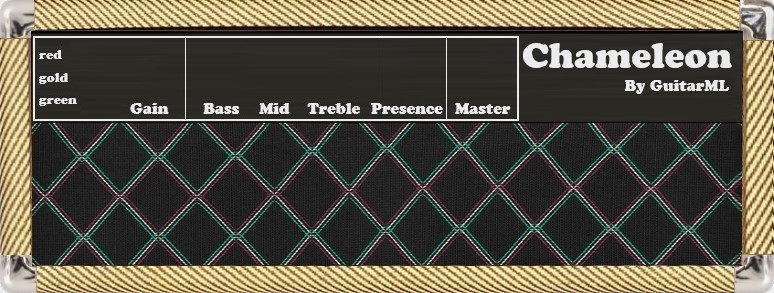
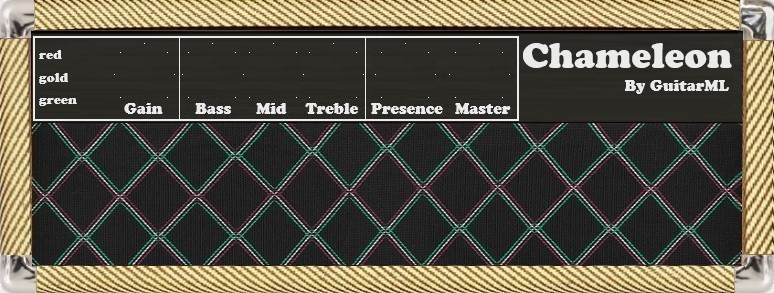
GUI adjustments

Changed region(s): [[0.2481, 0.3379, 0.4651, 0.3993], [0.155, 0.3379, 0.2171, 0.3993]]

diff --git a/Source/PluginEditor.cpp b/Source/PluginEditor.cpp
@@ -76,7 +76,7 @@ ChameleonAudioProcessorEditor::ChameleonAudioProcessorEditor (ChameleonAudioProc
     addAndMakeVisible(ampGainKnob);
     ampGainKnob.setLookAndFeel(&ampSilverKnobLAF);
     ampGainKnob.addListener(this);
-    ampGainKnob.setRange(-12.0, 12.0);
+    ampGainKnob.setRange(-10.0, 10.0);
     ampGainKnob.setValue(processor.ampGainKnobState);
     ampGainKnob.setSliderStyle(juce::Slider::SliderStyle::RotaryVerticalDrag);
     ampGainKnob.setTextBoxStyle(juce::Slider::TextEntryBoxPosition::NoTextBox, false, 50, 20);
@@ -115,8 +115,8 @@ ChameleonAudioProcessorEditor::~ChameleonAudioProcessorEditor()
 //==============================================================================
 void ChameleonAudioProcessorEditor::paint (Graphics& g)
 {
+    background = ImageCache::getFromMemory(BinaryData::chameleon_amp_jpg, BinaryData::chameleon_amp_jpgSize);
     g.drawImageAt(background, 0, 0);
-
     g.setColour (Colours::white);
     g.setFont (15.0f);
 
@@ -164,37 +164,41 @@ void ChameleonAudioProcessorEditor::resized()
     // subcomponents in your editor..
 	
     // Amp Widgets
-    ampBassKnob.setBounds(201, 40, 50, 70);
-    ampMidKnob.setBounds(258, 40, 50, 70);
+    ampBassKnob.setBounds(188, 40, 50, 70);
+    ampMidKnob.setBounds(249, 40, 50, 70);
     ampTrebleKnob.setBounds(308, 40, 50, 70);
-    ampGainKnob.setBounds(130, 40, 50, 70);
-    ampMasterKnob.setBounds(450, 40, 50, 70);
-	ampPresenceKnob.setBounds(385, 40, 50, 70);
+    ampGainKnob.setBounds(120, 40, 50, 70);
+    ampMasterKnob.setBounds(455, 40, 50, 70);
+	ampPresenceKnob.setBounds(380, 40, 50, 70);
 
-    colorSelectButton.setBounds(54, 40, 15, 25);
-    ampLED.setBounds(694, 100, 20, 20);
+    colorSelectButton.setBounds(58, 41, 15, 25);
+    ampLED.setBounds(694, 89, 20, 20);
 }
 
 
 void ChameleonAudioProcessorEditor::buttonClicked(juce::Button* button)
 {
-    
     if (button == &colorSelectButton) {
         colorSelectClicked();
-    } 
-    
+    }
 }
 
 
 void ChameleonAudioProcessorEditor::colorSelectClicked() {
     if (processor.current_model_index == 0) {
         processor.current_model_index = 1;
+        processor.fromUpDown = 0;
     }
     else if (processor.current_model_index == 1) {
-        processor.current_model_index = 2;
+        if (processor.fromUpDown == 0) {
+            processor.current_model_index = 2;
+        } else {
+            processor.current_model_index = 0;
+        }
     }
     else if (processor.current_model_index == 2) {
         processor.current_model_index = 1;
+        processor.fromUpDown = 1;
     }
     processor.loadConfig(processor.jsonFiles[processor.current_model_index]);
 

diff --git a/Source/PluginProcessor.cpp b/Source/PluginProcessor.cpp
@@ -159,6 +159,14 @@ void ChameleonAudioProcessor::processBlock (AudioBuffer<float>& buffer, MidiBuff
 
         // Master Volume 
         buffer.applyGain(ampMaster);
+
+        // Custom Level for quieter models
+        if (current_model_index == 1) {
+            buffer.applyGain(3.0);
+        }
+        else if (current_model_index == 2) {
+            buffer.applyGain(5.0);
+        }
     }
     
 	// Handle stereo input by copying channel 1 to channel 2
@@ -251,7 +259,6 @@ void ChameleonAudioProcessor::setupDataDirectories()
     if (userAppDataTempFile_tones.existsAsFile()) {
         userAppDataTempFile_tones.deleteFile();
     }
-
 
     // Add the tones directory and update tone list
     addDirectory(userAppDataDirectory_tones);

diff --git a/Source/PluginProcessor.h b/Source/PluginProcessor.h
@@ -89,6 +89,7 @@ public:
     const char* char_filename = "";
     int model_loaded = 0;
     int current_model_index = 0; // 0 = red, 1 = gold, 2 = green
+    int fromUpDown = 0;
 
     // Amp knob states
     float ampBassKnobState = 0.0;
